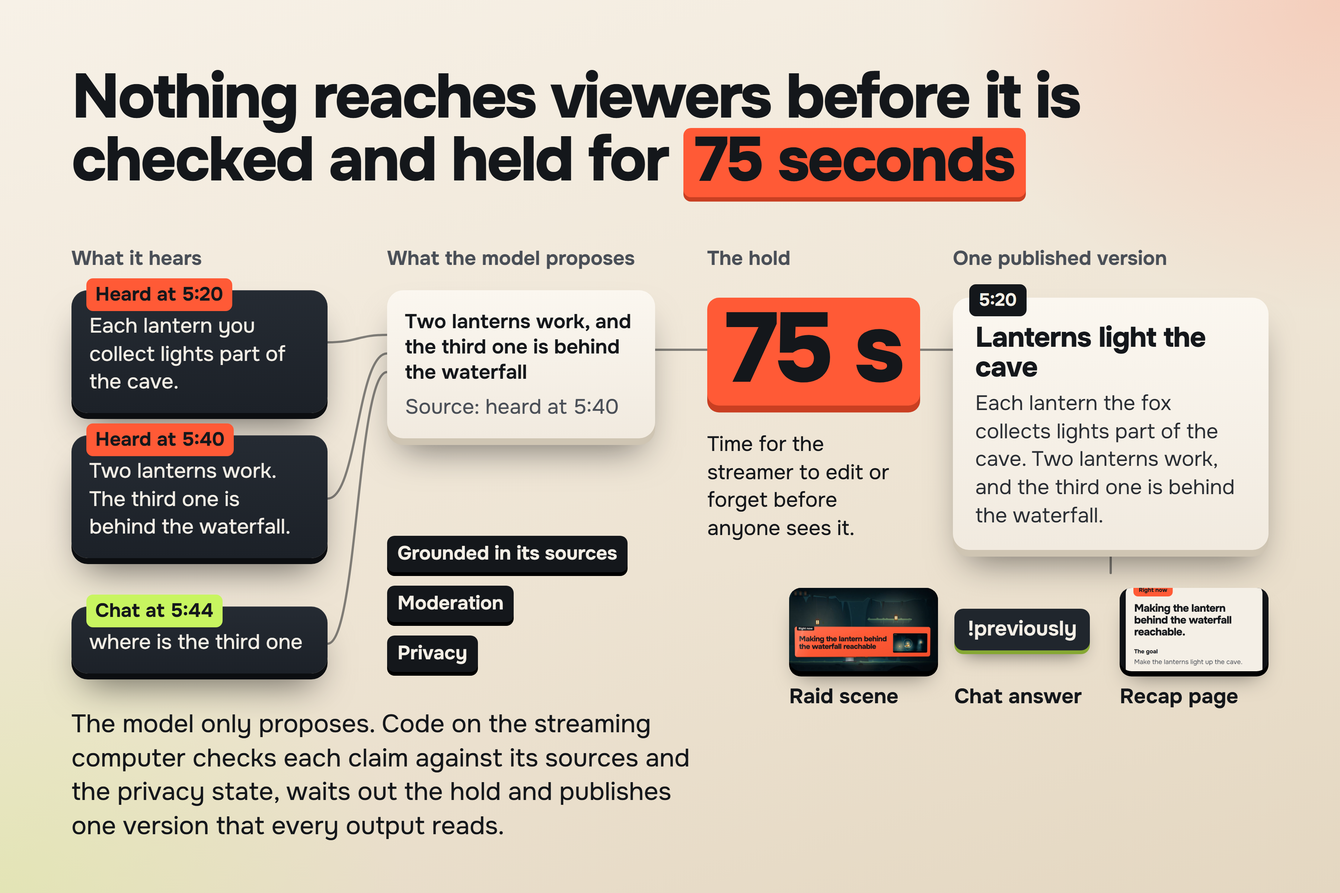
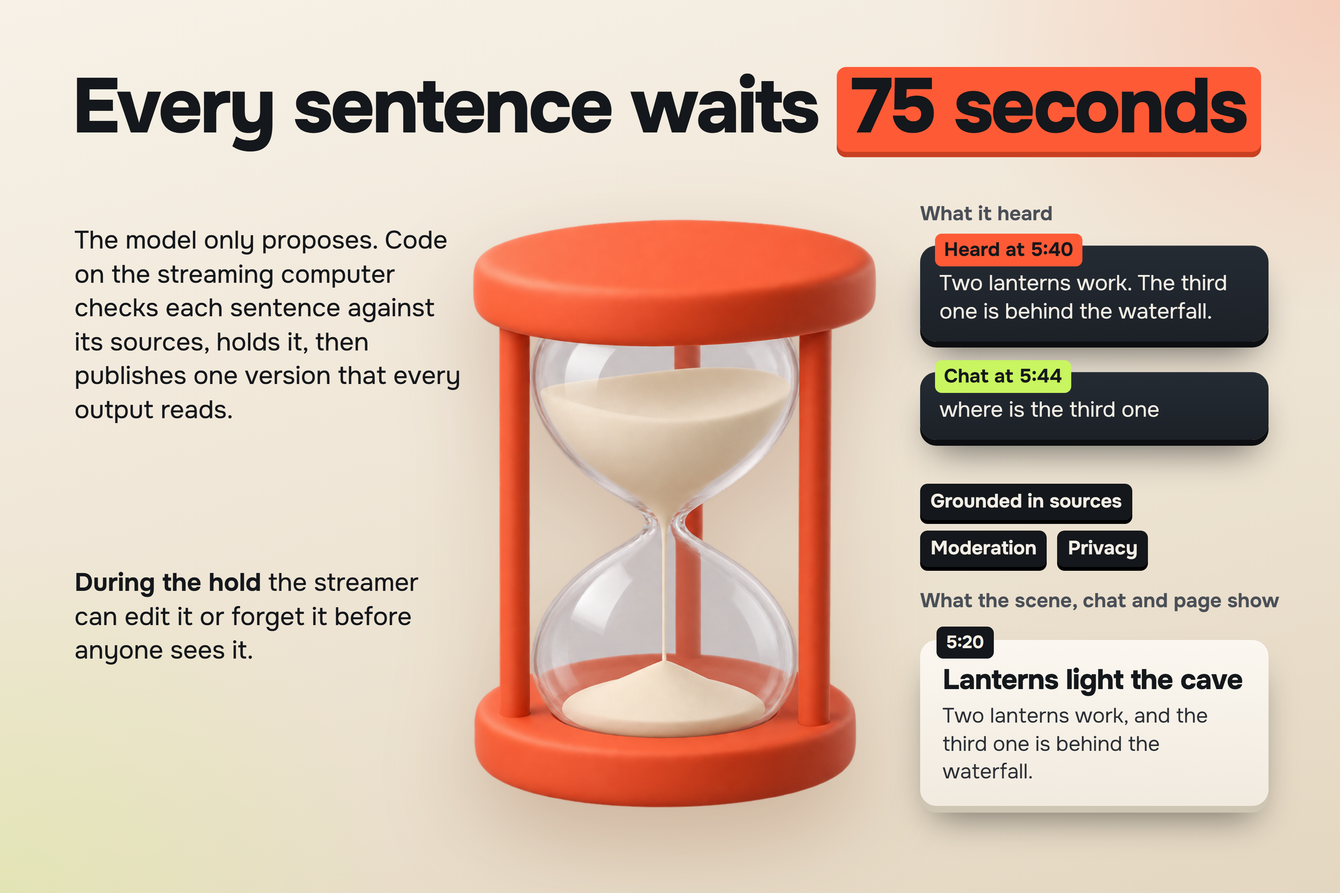
Gallery with crafted hero objects and a clearer idea per slide

diff --git a/docs/gallery/source/deck.html b/docs/gallery/source/deck.html
@@ -115,9 +115,30 @@ img { display: block; }
 .langs b[lang="ja"] { font-family: 'Yu Gothic', sans-serif; font-weight: 700; letter-spacing: 0; }
 .langs b[lang="ko"] { font-family: 'Malgun Gothic', sans-serif; font-weight: 700; letter-spacing: 0; }
 .langs b[lang^="zh"] { font-family: 'Microsoft YaHei', sans-serif; font-weight: 700; letter-spacing: 0; }
-.langs i { font-style: normal; display: inline-block; background: var(--paper); color: var(--ink); font-weight: 700; font-size: 22px; padding: 4px 10px 6px; border-radius: 7px; margin-left: 14px; box-shadow: 0 4px 0 var(--paper-side); }
+.langs i { font-style: normal; display: inline-block; background: var(--ink); color: var(--paper); font-weight: 700; font-size: 22px; padding: 4px 10px 6px; border-radius: 7px; margin-left: 14px; box-shadow: 0 4px 0 #000; }
 .part { position: relative; padding: 22px 12px; text-align: center; display: flex; align-items: center; justify-content: center; }
 .part h3 { font-size: 25px; }
+
+.strip { position: absolute; left: -140px; width: 2080px; height: 420px; transform: rotate(-3.5deg); border-radius: 12px;
+  background: linear-gradient(180deg, #23282F, #14171B 60%, #0F1215); box-shadow: 0 14px 0 #07080A, 0 70px 100px -36px rgba(60,30,10,.55), inset 0 1px 0 rgba(255,255,255,.08); }
+.strip .holes { height: 44px; margin: 0 20px; background: repeating-linear-gradient(90deg, transparent 0 22px, #E9DFCF 22px 50px, transparent 50px 72px) center / 100% 20px no-repeat; }
+.strip .frames { display: flex; gap: 20px; padding: 0 0 0 158px; height: 352px; }
+.strip figure { width: 332px; }
+.strip .sf { width: 332px; height: 187px; border-radius: 10px; overflow: hidden; background: #000; box-shadow: inset 0 0 0 2px rgba(255,255,255,.06); }
+.strip .sf img { width: 100%; height: 100%; object-fit: cover; }
+.strip figcaption { margin-top: 16px; color: var(--paper); font-size: 34px; font-weight: 650; line-height: 1.15; letter-spacing: -.01em; }
+.strip figcaption b { color: var(--verm); margin-right: 12px; font-variant-numeric: tabular-nums; }
+.co { position: absolute; width: 400px; }
+.co .ctl { font-size: 28px; }
+.co p { margin-top: 12px; font-size: 30px; line-height: 1.3; font-weight: 450; }
+.dot { position: absolute; width: 22px; height: 22px; border-radius: 50%; background: var(--verm); box-shadow: 0 0 0 6px rgba(255,90,54,.28); transform: translate(-50%,-50%); z-index: 3; }
+.obj { filter: drop-shadow(0 40px 60px rgba(10,30,20,.35)); }
+.cv-night { color: var(--paper); background:
+  radial-gradient(760px 620px at 22% 78%, rgba(200,245,96,.30), transparent 62%),
+  radial-gradient(900px 700px at 100% 0%, rgba(255,90,54,.20), transparent 62%),
+  linear-gradient(160deg, #1D252B 0%, #14191E 55%, #0F1317 100%); }
+.ctl.p { background: var(--paper); color: var(--ink); box-shadow: 0 5px 0 var(--paper-side); }
+.mlabel { transform: translateX(-50%); font-size: 26px; white-space: nowrap; }
 </style>
 </head>
 <body>
@@ -142,22 +163,22 @@ img { display: block; }
 
 <!-- ============ 01 LATE ARRIVALS ============ -->
 <section class="slide cv-teal" id="late-arrivals" data-out="01-late-arrivals">
-  <div class="logo" style="left:96px; top:84px; color:var(--paper);"><img src="../../../public/brand/mark.svg">Previously</div>
-  <div class="abs" style="left:96px; top:240px;"><span class="h1 plate k" style="font-size:96px; padding:16px 32px 24px; border-radius:26px; box-shadow: 0 12px 0 var(--ink-deep), 0 40px 60px -24px rgba(4,30,32,.6);">What did I miss?</span></div>
-  <div class="abs lead" style="left:100px; top:480px; width:640px; color:#FFFFFF; font-weight:500;">A raid drops a whole audience into the middle of a stream. They missed the jokes, the bugs and why chat keeps typing MOON JUMP.</div>
-  <div class="abs body" style="left:100px; top:800px; width:620px; color:#E3F3EF;">The streamer can stop to explain or keep playing and leave them lost. Previously answers for them: on stream, in chat and on a page.</div>
-  <div class="frame" style="left:880px; top:110px; width:824px; height:463px; transform: rotate(-1.5deg); box-shadow: 0 12px 0 #07161A, 0 60px 90px -30px rgba(3,24,26,.75);"><img src="../../../public/demo/foxlight/clip-moon.jpg"></div>
-  <div class="card" style="left:1184px; top:500px; width:520px; padding:28px 30px 24px; transform: rotate(1.5deg); box-shadow: 0 9px 0 var(--paper-side), 0 50px 80px -24px rgba(3,24,26,.7);">
+  <img class="abs obj" src="assets/art/bubble.png" style="left:860px; top:50px; width:960px;">
+  <div class="abs h1" style="left:96px; top:96px; width:900px; font-size:128px; color:#FFFFFF;">What did I&nbsp;miss?</div>
+  <div class="abs lead" style="left:100px; top:440px; width:640px; color:#FFFFFF; font-weight:500;">A raid drops a whole audience into the middle of a stream. They missed the jokes, the bugs and why chat keeps typing MOON JUMP.</div>
+  <div class="abs body" style="left:100px; top:760px; width:600px; color:#E3F3EF;">The streamer can stop to explain or keep playing and leave them lost. Previously answers for them: on stream, in chat and on a page.</div>
+  <div class="card" style="left:900px; top:640px; width:540px; padding:28px 30px 24px; transform: rotate(-2deg); box-shadow: 0 9px 0 var(--paper-side), 0 60px 90px -24px rgba(3,24,26,.7);">
     <div style="display:flex; align-items:center; justify-content:space-between; gap:16px;">
       <span style="font-size:28px; font-weight:700; color:var(--ink);">Chat at 1:40</span>
       <span class="plate l" style="font-size:26px; font-weight:800; padding:6px 12px 8px; border-radius:9px;">45 messages in 10 s</span>
     </div>
-    <ol style="list-style:none; margin-top:22px; display:grid; gap:12px; font-size:30px; line-height:1.15; font-weight:550; color:var(--ink);">
-      <li>MOON JUMP</li><li>he's gone</li><li>fox to the moon</li><li>the fox has left the cave</li><li>MOON JUMP MOON JUMP</li><li>clip it</li><li>where did he go</li>
-      <li style="color:var(--muted-paper);">and 38 more</li>
+    <ol style="list-style:none; margin-top:20px; display:grid; gap:11px; font-size:30px; line-height:1.15; font-weight:550; color:var(--ink);">
+      <li>MOON JUMP</li><li>he's gone</li><li>fox to the moon</li><li>the fox has left the cave</li><li>MOON JUMP MOON JUMP</li><li>where did he go</li>
+      <li style="color:var(--muted-paper);">and 39 more</li>
     </ol>
   </div>
-  <div class="abs small" style="left:884px; top:640px; width:270px; color:#E3F3EF;">The moon jump in our example recording of Foxlight, a small game we made</div>
+  <div class="frame" style="left:1440px; top:880px; width:400px; height:225px; transform: rotate(3deg);"><img src="../../../public/demo/foxlight/clip-moon.jpg"></div>
+  <div class="abs small" style="left:100px; top:1090px; width:700px; color:#E3F3EF;">The moon jump in our example recording of Foxlight, a small game we made</div>
 </section>
 
 <!-- ============ 02 RAID SCENE (anchor) ============ -->
@@ -177,26 +198,29 @@ img { display: block; }
 
 <!-- ============ 03 SCENE SEQUENCE ============ -->
 <section class="slide cv-paper" id="scene-sequence" data-out="03-scene-sequence">
-  <div class="abs h1" style="left:96px; top:84px; width:1620px; font-size:86px; white-space:nowrap;">Twelve seconds, <span class="plate v">one thing at a time</span></div>
-  <div class="abs" style="left:96px; top:268px; width:1608px; display:grid; grid-template-columns: repeat(3, 1fr); gap:30px;">
-    <figure style="position:relative;"><div class="frame" style="position:relative; height:290px;"><img src="assets/scene/welcome.jpg"></div><span class="abs ctl k seq"><span class="t">0:01</span>Welcome, by raid name</span></figure>
-    <figure style="position:relative;"><div class="frame" style="position:relative; height:290px;"><img src="assets/scene/chapters.jpg"></div><span class="abs ctl k seq"><span class="t">0:03</span>The chapters so far</span></figure>
-    <figure style="position:relative;"><div class="frame" style="position:relative; height:290px;"><img src="assets/scene/chat.jpg"></div><span class="abs ctl k seq"><span class="t">0:05</span>The moment chat exploded</span></figure>
+  <div class="abs h1" style="left:96px; top:84px; width:1500px; font-size:92px;">A welcome, the backstory, the joke, <span class="plate v">then right now</span></div>
+  <div class="strip" style="top:400px;">
+    <div class="holes"></div>
+    <div class="frames">
+      <figure><div class="sf"><img src="assets/scene/welcome.jpg"></div><figcaption><b>0:01</b>The welcome</figcaption></figure>
+      <figure><div class="sf"><img src="assets/scene/chapters.jpg" style="transform:scale(1.25); transform-origin: 18% 62%;"></div><figcaption><b>0:03</b>The chapters</figcaption></figure>
+      <figure><div class="sf"><img src="assets/scene/chat.jpg" style="transform:scale(1.15); transform-origin: 40% 55%;"></div><figcaption><b>0:05</b>Chat explodes</figcaption></figure>
+      <figure><div class="sf"><img src="assets/scene/joke.jpg" style="transform:scale(1.12); transform-origin: 60% 60%;"></div><figcaption><b>0:07</b>The joke</figcaption></figure>
+      <figure><div class="sf"><img src="assets/scene/now.jpg" style="transform:scale(1.1); transform-origin: 50% 58%;"></div><figcaption><b>0:08</b>Right now</figcaption></figure>
+    </div>
+    <div class="holes b"></div>
   </div>
-  <div class="abs" style="left:96px; top:632px; width:1608px; display:grid; grid-template-columns: 1fr 1fr; gap:30px;">
-    <figure style="position:relative;"><div class="frame" style="position:relative; height:434px;"><img src="assets/scene/joke.jpg"></div><span class="abs ctl k seq"><span class="t">0:07</span>The joke, explained</span></figure>
-    <figure style="position:relative;"><div class="frame" style="position:relative; height:434px;"><img src="assets/scene/now.jpg"></div><span class="abs ctl k seq"><span class="t">0:08</span>What is happening now</span></figure>
-  </div>
-  <div class="abs small muted-paper" style="left:100px; top:1112px; width:1600px;">Frames from the example's raid scene. Streamers can also set it to 10 or 15 seconds.</div>
+  <div class="abs body" style="left:100px; top:965px; width:1100px;">One thing on screen at a time, from chapters that already passed their checks. Then the overlay clears the stream.</div>
+  <div class="abs small muted-paper" style="left:100px; top:1100px; width:1600px;">Frames from the example's raid scene, which runs 12 seconds. Streamers can choose 10 or 15.</div>
 </section>
 
 <!-- ============ 04 CHAT COMMAND ============ -->
-<section class="slide cv-lime" id="chat-command" data-out="04-chat-command">
-  <div class="abs h1" style="left:96px; top:96px; width:800px; font-size:94px;">Anyone who joins late can type <span class="plate kl">!previously</span></div>
-  <div class="abs lead" style="left:100px; top:470px; width:760px;">Chat gets the latest chapters, what is happening now and a link to the recap page, straight from the published story.</div>
-  <div class="abs body" style="left:100px; top:740px; width:740px;"><b>!lore moon jump</b> explains a running joke only when its origin is in the sources. Otherwise it says the origin is not confirmed yet.</div>
-  <div class="abs small" style="left:100px; top:1050px; width:740px; color:#2E3A12;">Replies from the example recording, written by the same code the chat bot uses.</div>
-  <div class="frame" style="left:960px; top:150px; width:740px; height:820px; border-radius:34px; transform: rotate(2deg); box-shadow: 0 14px 0 #0C0E11, 0 60px 90px -30px rgba(30,50,0,.6);"><img src="assets/app/landing-chat.png" style="object-fit:cover; object-position: top;"></div>
+<section class="slide cv-night" id="chat-command" data-out="04-chat-command">
+  <img class="abs obj" src="assets/art/keycap.png" style="left:20px; top:640px; width:600px;">
+  <div class="abs h1" style="left:96px; top:96px; width:820px; font-size:96px;">Anyone who joins late can type <span class="plate l">!previously</span></div>
+  <div class="abs lead" style="left:100px; top:430px; width:740px; color:#E6EBF0;">Chat gets the latest chapters, what is happening now and a link to the recap page.</div>
+  <div class="frame" style="left:930px; top:110px; width:770px; height:853px; border-radius:34px; transform: rotate(2deg); box-shadow: 0 14px 0 #07080A, 0 60px 90px -30px rgba(0,0,0,.7), 0 0 0 2px rgba(255,255,255,.06);"><img src="assets/app/landing-chat.png" style="object-fit:cover; object-position: top;"></div>
+  <div class="abs body" style="left:940px; top:1010px; width:760px; color:#E6EBF0;"><b style="color:var(--lime);">!lore moon jump</b> explains a joke only when its origin is in the sources.</div>
 </section>
 
 <!-- ============ 05 RECAP PAGE ============ -->
@@ -213,12 +237,11 @@ img { display: block; }
 </section>
 
 <!-- ============ 06 ANY LANGUAGE ============ -->
-<section class="slide cv-ink" id="any-language" data-out="06-any-language">
-  <div class="abs h1" style="left:96px; top:90px; width:700px; font-size:84px;">Recaps in your stream's language</div>
-  <div class="abs body" style="left:100px; top:310px; width:660px; color:#E6EBF0;">Choose any language. The model writes the chapters in it, and the scene and chat bot labels come in 14 languages. English is the default.</div>
-  <div class="frame" style="left:96px; top:580px; width:670px; height:500px; transform: rotate(-1.5deg);"><img src="assets/app/recap-ru.png" style="object-position: 0 0;"></div>
-  <div class="abs small" style="left:100px; top:1112px; width:700px; color:#C9D0D8;">The example recording switched to Russian. It holds English and Russian wording.</div>
-  <div class="abs small" style="left:860px; top:110px; width:844px; color:#C9D0D8;">How the raid scene opens in each built-in language</div>
+<section class="slide cv-paper" id="any-language" data-out="06-any-language">
+  <img class="abs obj" src="assets/art/bubbles-stack.png" style="left:150px; top:470px; height:820px; filter: drop-shadow(0 40px 50px rgba(120,60,20,.25));">
+  <div class="abs h1" style="left:96px; top:90px; width:720px; font-size:88px;">Recaps in your stream's language</div>
+  <div class="abs body" style="left:100px; top:310px; width:640px;">Pick any language. The model writes the chapters in it, and the scene and chat bot labels come in 14 languages.</div>
+  <div class="abs small muted-paper" style="left:860px; top:110px; width:844px;">How the raid scene opens in each built-in language</div>
   <div class="abs langs" style="left:860px; top:180px; width:844px;">
     <div><b>Previously</b><i>English</i></div>
     <div><b>Ранее</b><i>Русский</i></div>
@@ -235,19 +258,26 @@ img { display: block; }
     <div><b lang="zh-Hans">前情提要</b><i>简体中文</i></div>
     <div><b lang="zh-Hant">前情提要</b><i>繁體中文</i></div>
   </div>
+  <div class="abs small muted-paper" style="left:860px; top:1100px; width:844px;">English is the default. The example recording holds English and Russian wording.</div>
 </section>
 
 <!-- ============ 07 STREAMER DOCK ============ -->
-<section class="slide cv-paper" id="streamer-dock" data-out="07-streamer-dock">
-  <div class="abs h1" style="left:96px; top:90px; width:1500px; font-size:88px;">The streamer stays in control from a dock in&nbsp;OBS</div>
-  <div class="frame" style="left:96px; top:330px; width:520px; height:920px; border-radius:26px;"><img src="assets/app/dock.png" style="height:auto; margin-top:-48px;"></div>
-  <div class="frame" style="left:560px; top:420px; width:600px; height:656px; transform: rotate(2.5deg); box-shadow: 0 12px 0 var(--paper-side), 0 60px 90px -30px rgba(40,20,10,.55);"><img src="assets/app/dock-edit.png"></div>
-  <div class="abs" style="left:1240px; top:330px; width:470px; display:grid; gap:24px;">
-    <div><span class="ctl k">Edit</span><p class="body" style="margin-top:12px; font-size:31px;">Your wording replaces the chapter everywhere after its check. Later rewrites leave it alone.</p></div>
-    <div><span class="ctl k">Pin</span><p class="body" style="margin-top:12px; font-size:31px;">Puts a chapter first in the next raid scene. Checks still apply.</p></div>
-    <div><span class="ctl k">Pause listening</span><p class="body" style="margin-top:12px; font-size:31px;">Stops the microphone and chat collection at once.</p></div>
-    <div><span class="ctl v">Forget last 2 min</span><p class="body" style="margin-top:12px; font-size:31px;">Erases that window and everything built from it.</p></div>
-  </div>
+<section class="slide cv-lime" id="streamer-dock" data-out="07-streamer-dock">
+  <div class="abs h1" style="left:96px; top:84px; width:1640px; font-size:88px; white-space:nowrap;">The streamer stays in control from&nbsp;OBS</div>
+  <div class="frame" style="left:480px; top:250px; width:640px; height:620px; border-radius:28px; box-shadow: 0 14px 0 #07080A, 0 80px 120px -40px rgba(60,30,10,.6);"><img src="assets/app/dock.png" style="height:auto; margin-top:-59px;"></div>
+  <div class="frame" style="left:1180px; top:290px; width:524px; height:573px; transform: rotate(2.5deg); box-shadow: 0 12px 0 var(--paper-side), 0 70px 100px -36px rgba(60,30,10,.55);"><img src="assets/app/dock-edit.png"></div>
+  <svg class="abs" style="left:0; top:0; z-index:2;" width="1800" height="1200" viewBox="0 0 1800 1200" fill="none" stroke="#14171B" stroke-width="3" stroke-linecap="round">
+    <path d="M440 560 C 470 560, 480 591, 504 591"/>
+    <path d="M440 790 C 470 790, 480 737, 504 737"/>
+    <path d="M953 770 L 953 930"/>
+  </svg>
+  <span class="dot" style="left:504px; top:591px;"></span>
+  <span class="dot" style="left:504px; top:737px;"></span>
+  <span class="dot" style="left:953px; top:770px;"></span>
+  <div class="co" style="left:96px; top:470px; width:340px;"><span class="ctl k">Show recap</span><p>Plays the raid scene in OBS on demand.</p></div>
+  <div class="co" style="left:96px; top:716px; width:340px;"><span class="ctl k">Pause listening</span><p>Stops the microphone and chat collection at once.</p></div>
+  <div class="co" style="left:760px; top:940px; width:380px;"><span class="ctl v">Forget last 2 min</span><p>Erases that window and everything built from it.</p></div>
+  <div class="co" style="left:1240px; top:925px; width:464px;"><span class="ctl k">Edit</span><p>Your wording replaces the chapter everywhere. Later rewrites leave it alone.</p></div>
 </section>
 
 <!-- ============ 08 FIX ONCE ============ -->
@@ -258,50 +288,39 @@ img { display: block; }
   <div class="card" style="left:620px; top:470px; width:420px; padding:34px 28px 26px; transform: rotate(1.5deg);"><span class="tab">3:30</span><h3>Moon jump becomes a cheat code</h3><p style="color:var(--verm-side); font-weight:700;">Applied</p></div>
   <div class="icard" style="left:96px; top:770px; width:944px; padding:26px 30px;"><p style="font-size:32px; font-weight:650; line-height:1.3;"><span style="color:var(--lime);">Published.</span> The recap page, the chat answer and the next raid scene use your wording.</p></div>
   <div class="abs body" style="left:100px; top:965px; width:940px; color:#2A0E07;">The old wording is withdrawn everywhere at once. A safe correction does not wait for another full hold.</div>
-  <div class="frame" style="left:1100px; top:120px; width:604px; height:632px; transform: rotate(2deg);"><img src="assets/app/recap-corrected.png" style="position:absolute; width:1300px; height:auto; left:-790px; top:-90px; object-fit:fill;"></div>
-  <div class="abs small" style="left:1104px; top:800px; width:600px; color:#3B1309;">The example's recap right after Apply my wording. The chapter is marked as edited by the streamer.</div>
+  <div class="frame" style="left:1160px; top:150px; width:520px; height:470px; transform: rotate(2deg); background:#1B4A4A;"><img src="assets/app/recap-corrected.png" style="position:absolute; width:1300px; height:auto; left:-870px; top:-80px; object-fit:fill;"></div>
+  <div class="abs small" style="left:1164px; top:680px; width:540px; color:#3B1309;">The example's recap right after Apply my wording. The chapter is marked as edited by the streamer.</div>
 </section>
 
 <!-- ============ 09 HOW IT WORKS ============ -->
 <section class="slide cv-paper" id="how-it-works" data-out="09-how-it-works">
-  <div class="abs h1" style="left:96px; top:90px; width:1560px; font-size:84px;">Nothing reaches viewers before it is checked and held for <span class="plate v">75 seconds</span></div>
-  <svg class="abs" style="left:0; top:0;" width="1800" height="1200" viewBox="0 0 1800 1200" fill="none" stroke="#14171B" stroke-width="3" stroke-linecap="round" opacity=".5">
-    <path d="M440 460 C 480 460, 480 450, 520 450"/><path d="M440 670 C 480 670, 480 475, 520 475"/><path d="M440 865 C 480 865, 480 500, 520 500"/>
-    <path d="M880 470 L 950 470"/><path d="M1210 470 L 1280 470"/>
-    <path d="M1492 700 L 1492 770"/>
-  </svg>
-  <div class="abs tag muted-paper" style="left:96px; top:330px;">What it hears</div>
-  <div class="icard" style="left:96px; top:390px; width:344px; padding:30px 24px 22px;"><span class="stab" style="background:var(--verm);">Heard at 5:20</span><p class="small">Each lantern you collect lights part of the cave.</p></div>
-  <div class="icard" style="left:96px; top:585px; width:344px; padding:30px 24px 22px;"><span class="stab" style="background:var(--verm);">Heard at 5:40</span><p class="small">Two lanterns work. The third one is behind the waterfall.</p></div>
-  <div class="icard" style="left:96px; top:815px; width:344px; padding:30px 24px 22px;"><span class="stab" style="background:var(--lime);">Chat at 5:44</span><p class="small">where is the third one</p></div>
-  <div class="abs tag muted-paper" style="left:520px; top:330px;">What the model proposes</div>
-  <div class="card" style="left:520px; top:390px; width:360px; padding:26px 24px 22px;"><p style="margin:0; font-size:27px; font-weight:650; color:var(--ink); line-height:1.25;">Two lanterns work, and the third one is behind the waterfall</p><p class="small" style="margin-top:12px; color:var(--muted-paper);">Source: heard at 5:40</p></div>
-  <div class="abs" style="left:520px; top:720px; display:grid; gap:18px; justify-items:start;">
-    <span class="ctl k">Grounded in its sources</span><span class="ctl k">Moderation</span><span class="ctl k">Privacy</span>
+  <img class="abs obj" src="assets/art/hourglass.png" style="left:610px; top:270px; height:840px; filter: drop-shadow(0 50px 60px rgba(120,50,20,.25));">
+  <div class="abs h1" style="left:96px; top:90px; width:1500px; font-size:104px; white-space:nowrap;">Every sentence waits <span class="plate v">75 seconds</span></div>
+  <div class="abs body" style="left:100px; top:300px; width:520px;">The model only proposes. Code on the streaming computer checks each sentence against its sources, holds it, then publishes one version that every output reads.</div>
+  <div class="abs body" style="left:100px; top:760px; width:500px;"><b>During the hold</b> the streamer can edit it or forget it before anyone sees it.</div>
+  <div class="abs tag muted-paper" style="left:1236px; top:270px;">What it heard</div>
+  <div class="icard" style="left:1236px; top:330px; width:468px; padding:32px 26px 22px;"><span class="stab" style="background:var(--verm);">Heard at 5:40</span><p style="font-size:29px; line-height:1.3;">Two lanterns work. The third one is behind the waterfall.</p></div>
+  <div class="icard" style="left:1236px; top:500px; width:468px; padding:32px 26px 22px;"><span class="stab" style="background:var(--lime);">Chat at 5:44</span><p style="font-size:29px;">where is the third one</p></div>
+  <div class="abs" style="left:1236px; top:650px; display:flex; flex-wrap:wrap; gap:14px; width:468px;">
+    <span class="ctl k">Grounded in sources</span><span class="ctl k">Moderation</span><span class="ctl k">Privacy</span>
   </div>
-  <div class="abs tag muted-paper" style="left:950px; top:330px;">The hold</div>
-  <div class="abs" style="left:950px; top:400px; width:270px;"><div class="num plate v" style="font-size:132px; white-space:nowrap;">75&nbsp;s</div><p class="small" style="margin-top:34px;">Time for the streamer to edit or forget before anyone sees it.</p></div>
-  <div class="abs tag muted-paper" style="left:1280px; top:330px;">One published version</div>
-  <div class="card" style="left:1280px; top:400px; width:424px;"><span class="tab">5:20</span><h3>Lanterns light the cave</h3><p>Each lantern the fox collects lights part of the cave. Two lanterns work, and the third one is behind the waterfall.</p></div>
-  <div class="abs" style="left:1060px; top:790px; width:644px; display:grid; grid-template-columns: 1fr 1fr 1fr; gap:22px;">
-    <figure><div class="frame" style="position:relative; height:112px; border-radius:16px; box-shadow: 0 7px 0 #000, 0 20px 30px -14px rgba(0,0,0,.5);"><img src="assets/scene/now.jpg"></div><figcaption class="small b" style="margin-top:16px;">Raid scene</figcaption></figure>
-    <figure><div style="height:112px; display:flex; align-items:center;"><span class="chip" style="font-size:28px;">!previously</span></div><figcaption class="small b" style="margin-top:16px;">Chat answer</figcaption></figure>
-    <figure><div class="frame" style="position:relative; height:112px; border-radius:16px; box-shadow: 0 7px 0 #000, 0 20px 30px -14px rgba(0,0,0,.5);"><img src="assets/app/public-phone.png" style="object-position: 0 70%;"></div><figcaption class="small b" style="margin-top:16px;">Recap page</figcaption></figure>
-  </div>
-  <div class="abs body" style="left:96px; top:950px; width:860px;">The model only proposes. Code on the streaming computer checks each claim against its sources and the privacy state, waits out the hold and publishes one version that every output reads.</div>
+  <div class="abs tag muted-paper" style="left:1236px; top:790px;">What the scene, chat and page show</div>
+  <div class="card" style="left:1236px; top:860px; width:468px;"><span class="tab">5:20</span><h3>Lanterns light the cave</h3><p>Two lanterns work, and the third one is behind the waterfall.</p></div>
+  
 </section>
 
 <!-- ============ 10 FORGET ============ -->
 <section class="slide cv-ember" id="forget" data-out="10-forget">
-  <div class="abs h1" style="left:96px; top:90px; width:880px; font-size:80px;">Forget follows the sources into everything built from them</div>
+  <div class="abs h1" style="left:96px; top:90px; width:880px; font-size:76px;">Forget follows the sources into everything built from them</div>
   <div class="frame" style="left:96px; top:470px; width:720px; height:473px; transform: rotate(-2deg); box-shadow: 0 12px 0 var(--paper-side), 0 60px 90px -30px rgba(0,0,0,.8);"><img src="assets/app/dock-forget.png"></div>
   <div class="abs body" style="left:100px; top:1010px; width:840px; color:#F6D9CF;">A model reply or a language switch that finishes later cannot bring the text back. Pins do not protect anything.</div>
   <svg class="abs" style="left:0; top:0;" width="1800" height="1200" viewBox="0 0 1800 1200" fill="none" stroke="#FF8A6B" stroke-width="3" stroke-linecap="round" opacity=".7">
-    <path d="M1090 330 L 1090 965"/>
-    <path d="M1090 445 L 1150 445"/><path d="M1090 549 L 1150 549"/><path d="M1090 653 L 1150 653"/><path d="M1090 757 L 1150 757"/><path d="M1090 861 L 1150 861"/><path d="M1090 965 L 1150 965"/>
+    <path d="M1090 400 L 1090 1005"/>
+    <path d="M1090 485 L 1150 485"/><path d="M1090 589 L 1150 589"/><path d="M1090 693 L 1150 693"/><path d="M1090 797 L 1150 797"/><path d="M1090 901 L 1150 901"/><path d="M1090 1005 L 1150 1005"/>
   </svg>
-  <div class="card" style="left:1000px; top:150px; width:704px; padding:34px 28px 26px;"><span class="tab v">Heard at 5:20</span><p style="margin:0; font-size:28px; color:var(--ink);"><span class="strike">Next, lanterns. The spring no longer launches the fox to the moon, so the fox can reach them.</span></p></div>
-  <div class="abs" style="left:1150px; top:410px; display:grid; gap:34px; width:554px;">
+  <div class="card" style="left:1000px; top:250px; width:704px; padding:34px 28px 26px;"><span class="tab v">Heard at 5:20</span><p style="margin:0; font-size:28px; color:var(--ink);"><span class="strike">Next, lanterns. The spring no longer launches the fox to the moon, so the fox can reach them.</span></p></div>
+  <img class="abs obj" src="assets/art/eraser.png" style="left:1440px; top:130px; width:440px; transform: rotate(-10deg); filter: drop-shadow(0 40px 50px rgba(20,4,2,.55));">
+  <div class="abs" style="left:1150px; top:450px; display:grid; gap:34px; width:554px;">
     <div class="icard row"><span class="strike">The chapter built on it</span></div>
     <div class="icard row"><span class="strike">Its translations</span></div>
     <div class="icard row"><span class="strike">Channel terms it explained</span></div>
@@ -309,24 +328,20 @@ img { display: block; }
     <div class="icard row"><span class="strike">Queued raid scenes</span></div>
     <div class="icard row"><span class="strike">Recordings and exports</span></div>
   </div>
-  <div class="abs small" style="left:1000px; top:1060px; width:704px; color:#F6D9CF;">A clip Twitch has already made stays on Twitch. Previously hides it and links to the clip manager.</div>
+  <div class="abs small" style="left:1000px; top:1100px; width:704px; color:#F6D9CF;">A clip Twitch already made stays on Twitch; Previously hides it and links to the clip manager.</div>
 </section>
 
 <!-- ============ 11 BUILT WITH CODEX ============ -->
 <section class="slide cv-ink" id="built-with-codex" data-out="11-built-with-codex">
   <div class="abs h1" style="left:96px; top:90px; width:860px; font-size:76px;">Built in one Codex session, from research to tested code</div>
-  <div class="abs body" style="left:100px; top:380px; width:780px; color:#E6EBF0;">Codex researched the current Twitch and OpenAI contracts, planned the architecture and wrote the code and its tests. Parallel workers each owned one part; the main session joined them and walked every user journey.</div>
-  <svg class="abs" style="left:0; top:0;" width="1800" height="1200" viewBox="0 0 1800 1200" fill="none" stroke="#A9B1BC" stroke-width="3" stroke-linecap="round" opacity=".6">
-    <path d="M190 785 L 190 850"/><path d="M386 785 L 386 850"/><path d="M582 785 L 582 850"/><path d="M778 785 L 778 850"/>
-  </svg>
-  <div class="abs" style="left:96px; top:700px; width:780px; display:grid; grid-template-columns: repeat(4, 1fr); gap:16px;">
-    <div class="card part"><h3>Runtime</h3></div><div class="card part"><h3>Storage</h3></div><div class="card part"><h3>Twitch adapters</h3></div><div class="card part"><h3>Interface</h3></div>
-  </div>
-  <div class="icard" style="left:96px; top:850px; width:780px; padding:24px 28px; background:linear-gradient(180deg,#2C333C,#232930);"><p style="font-size:30px; font-weight:700;">Main Codex session</p><p class="small" style="margin-top:6px; color:#C9D0D8;">joins the parts, reviews the joins and checks every journey</p></div>
-  <div class="abs small" style="left:100px; top:1060px; width:780px; color:#C9D0D8;">Claude agents made the final visual pass: the mark, the raid scene, the pages and the Foxlight example.</div>
+  <div class="abs body" style="left:100px; top:350px; width:780px; color:#E6EBF0;">Codex researched the current Twitch and OpenAI contracts, planned the architecture and wrote the code and its tests. Parallel workers built the parts; the main session joined them.</div>
+  <img class="abs obj" src="assets/art/modules.png" style="left:96px; top:640px; width:800px; filter: drop-shadow(0 40px 50px rgba(0,0,0,.5));">
+  <svg class="abs" style="left:0; top:0;" width="1800" height="1200" viewBox="0 0 1800 1200" fill="none" stroke="#C9D0D8" stroke-width="3" stroke-linecap="round"><path d="M232 622 L 232 680"/><path d="M403 622 L 403 662"/><path d="M581 622 L 581 707"/><path d="M747 622 L 747 754"/></svg>
+  <span class="abs ctl p mlabel" style="left:232px; top:570px;">Runtime</span><span class="abs ctl p mlabel" style="left:403px; top:570px;">Storage</span><span class="abs ctl p mlabel" style="left:581px; top:570px;">Twitch</span><span class="abs ctl p mlabel" style="left:747px; top:570px;">Interface</span>
+  <div class="abs small" style="left:100px; top:1080px; width:860px; color:#C9D0D8;">Claude agents made the visual pass: mark, scene and pages.</div>
   <div class="abs" style="left:1000px; top:96px; width:704px; display:grid; gap:30px;">
-    <div><span class="num plate p" style="font-size:92px;">1,000 of 1,000</span><p class="body" style="margin-top:18px;">chat messages committed through the real EventSub transport and SQLite at 20 per second, with no gaps.</p></div>
-    <div><span class="num plate l" style="font-size:92px;">577,200</span><p class="body" style="margin-top:18px;">messages through the story core over eight virtual hours, including a burst at 200 per second.</p></div>
+    <div><span class="num plate p" style="font-size:92px;">1,000 of 1,000</span><p class="body" style="margin-top:18px; color:#E6EBF0;">chat messages committed through the real EventSub transport and SQLite at 20 per second, with no gaps.</p></div>
+    <div><span class="num plate l" style="font-size:92px;">577,200</span><p class="body" style="margin-top:18px; color:#E6EBF0;">messages through the story core over eight virtual hours, including a burst at 200 per second.</p></div>
     <div class="icard" style="position:relative; padding:26px 28px;"><p style="font-size:30px; font-weight:700;">Reviews caught real bugs</p>
       <ul style="margin-top:12px; padding-left:28px; font-size:27px; line-height:1.34; color:#E6EBF0; display:grid; gap:8px;">
         <li>A full chat queue could drop a deletion that had arrived</li>
@@ -334,7 +349,7 @@ img { display: block; }
         <li>A chat flood pushed speech out of the story after an outage</li>
       </ul></div>
   </div>
-  <div class="abs small" style="left:1000px; top:1060px; width:704px; color:#C9D0D8;">Measured on one Windows machine with fixtures in place of Twitch sockets and the OpenAI API.</div>
+  <div class="abs small" style="left:1000px; top:1080px; width:704px; color:#C9D0D8;">Measured on one Windows machine with fixtures in place of Twitch sockets and the OpenAI API.</div>
 </section>
 
 <!-- ============ 12 RUN IT ============ -->

diff --git a/docs/gallery/source/assets/art/BRIEF.md b/docs/gallery/source/assets/art/BRIEF.md
@@ -1,0 +1,24 @@
+# Generate six hero objects for a pitch gallery
+
+Use your `imagegen` skill. Write only into `C:/Users/user/Desktop/previouslu/review/gallery/art/out/` (create it). Do not touch git, any other folder or `.vibemachina`. Save each image as PNG with a real transparent background (alpha channel, no painted checkerboard, no ground plane colour), about 1600 px on the long side. If a true transparent background is not possible, use a flat solid #FF00FF background that we can key out, and say so. When done, list the files with their pixel sizes in your final message.
+
+## The family (applies to all six)
+
+These are hero objects for slides about Previously, a tool that gives Twitch raiders and late viewers a recap of the stream. They sit on saturated colour fields next to large native text, like the 3D objects in premium Russian bank and product decks (Ozon, Sber): one large, crafted object per slide.
+
+- Material: smooth matte soft-touch plastic / ceramic, gently rounded bevels, visible thickness, no texture noise, no cheap gloss. One small accent may be clear glass or a soft iridescent sheen.
+- Palette, only these: vermilion #FF5A36 (darker side #C93F22), warm paper cream #F4EFE6 (side #CFC5B3), ink #14171B, lime #C8F560 (side #86A833).
+- Light: one key light from the upper left, soft fill, a gentle rim on the right edge. A soft contact shadow directly under the object is fine; nothing else on the background.
+- Camera: three-quarter view from slightly above, about 25° to the right, slightly wide lens. Same camera for all six.
+- Strictly no text, no letters, no numbers, no logos, no UI, no faces, no people, no particles, no sparkles, no confetti, no extra props.
+
+## The six objects (file names)
+
+1. `bubble.png`: a large chat speech bubble in lime matte material, thick like a cushion (depth about a quarter of its width), rounded rectangle with a short tail at the lower left. On its front face a question mark is debossed (pressed in), the same lime with a darker inner shading. Behind it, overlapping, one smaller speech bubble in cream, slightly turned.
+2. `keycap.png`: one oversized mechanical keyboard keycap in lime matte plastic, sculpted top with a gentle concave dish, visible stem underneath. The legend on top is an exclamation mark, raised and in ink colour. Only this one key.
+3. `hourglass.png`: an hourglass with a vermilion matte frame (two round discs top and bottom, three slim pillars), glass bulbs, warm cream sand: most of it still in the top bulb, a thin stream falling, a small heap below.
+4. `eraser.png`: a chunky block eraser lying at a slight angle, vermilion top half and cream bottom half like a classic two-tone eraser, one end worn into a soft curve, three or four small cream eraser crumbs beside it.
+5. `modules.png`: four rounded square matte modules (two cream, one vermilion, one lime) slotted side by side into a single ink-coloured base tray, each module a slightly different height, like building blocks plugged into one board. Seen from the same three-quarter camera.
+6. `bubbles-stack.png`: five matte speech bubbles of different sizes stacked and overlapping in a loose tower, alternating vermilion, cream, lime, ink and cream, each a cushion-thick rounded rectangle with a small tail, all blank.
+
+Keep every object fully inside the frame with some empty margin. Prefer one excellent object over decoration.
